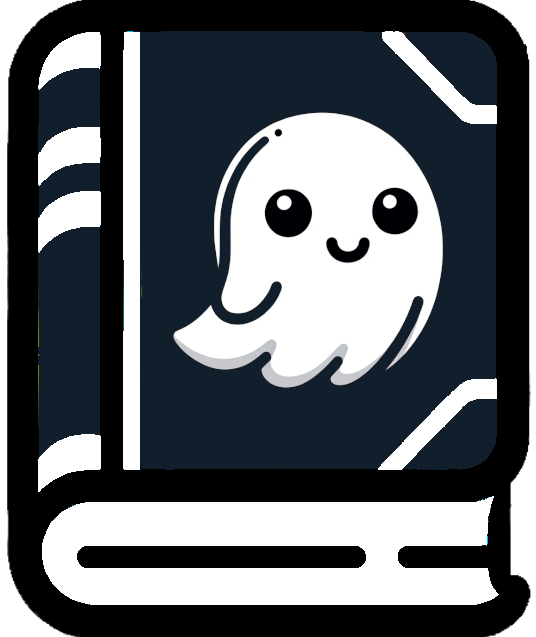
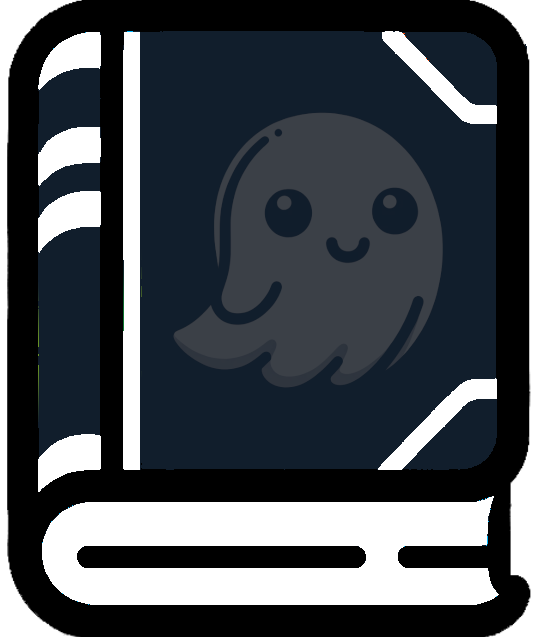
added a ghostie fade

Changed region(s): [[0.3284, 0.179, 0.8358, 0.6264]]

diff --git a/index.html b/index.html
@@ -159,9 +159,11 @@
     <div class="icon-container">
         <a href="https://www.instagram.com/kimmerandcasper" class="download-link">
             <img src="SocialMediaIcon.png" alt="Kimmer's Instagram" class="pdfIcon">
+            <div class="download-text">INSTA</div>
         </a>
         <a href="MyResume.pdf" download class="download-link">
             <img src="PDFicon.png" alt="Download Resume" class="pdfIcon">
+            <div class="download-text">RESUME</div>
         </a>
         <a href="https://www.amazon.com/s?k=kimmer+o%27reilly&i=stripbooks&crid=2ZSWFK6AF4H9Q&sprefix=kimmer+o%27reill%2Cstripbooks%2C203&ref=nb_sb_noss" class="download-link">
             <img src="BookIcon1.png" alt="Download Books" class="pdfIcon" id="bookIcon">
@@ -201,18 +203,15 @@
         titleAnimation.start();
 
         let bookIconAnimation = {
-            images: ['BookIcon1.png', 'BookIcon2.png'],
+            images: ['BookIcon1.png', 'BookIcon2.png', 'BookIcon3.png', 'BookIcon4.png', 'BookIcon5.png', 'BookIcon6.png', 'BookIcon7.png', 'BookIcon8.png', 'BookIcon9.png', 'BookIcon10.png'],
             currentIndex: 0,
             switchImage: function() {
                 const bookIcon = document.getElementById('bookIcon');
-                setTimeout(() => {
-                    this.currentIndex = (this.currentIndex + 1) % this.images.length;
-                    bookIcon.src = this.images[this.currentIndex];
-                    bookIcon.style.opacity = 1; // Fade back in
-                }, 750); // Half of your intended transition time
+                this.currentIndex = (this.currentIndex + 1) % this.images.length;
+                bookIcon.src = this.images[this.currentIndex];
             },
             start: function() {
-                setInterval(this.switchImage.bind(this), 1500); // Adjust as needed
+                setInterval(this.switchImage.bind(this), 3000); // Adjust as needed
             }
         };
         bookIconAnimation.start();
